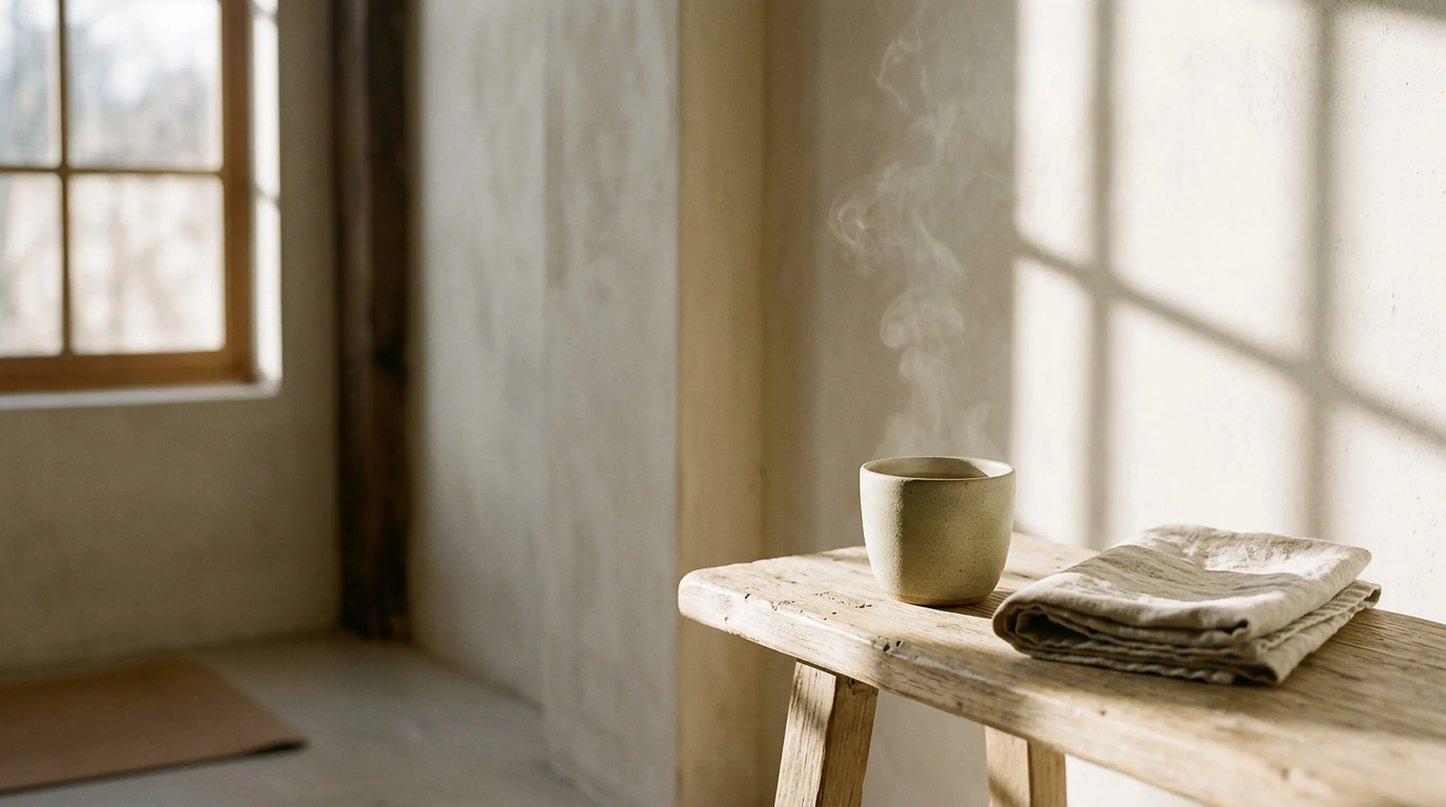
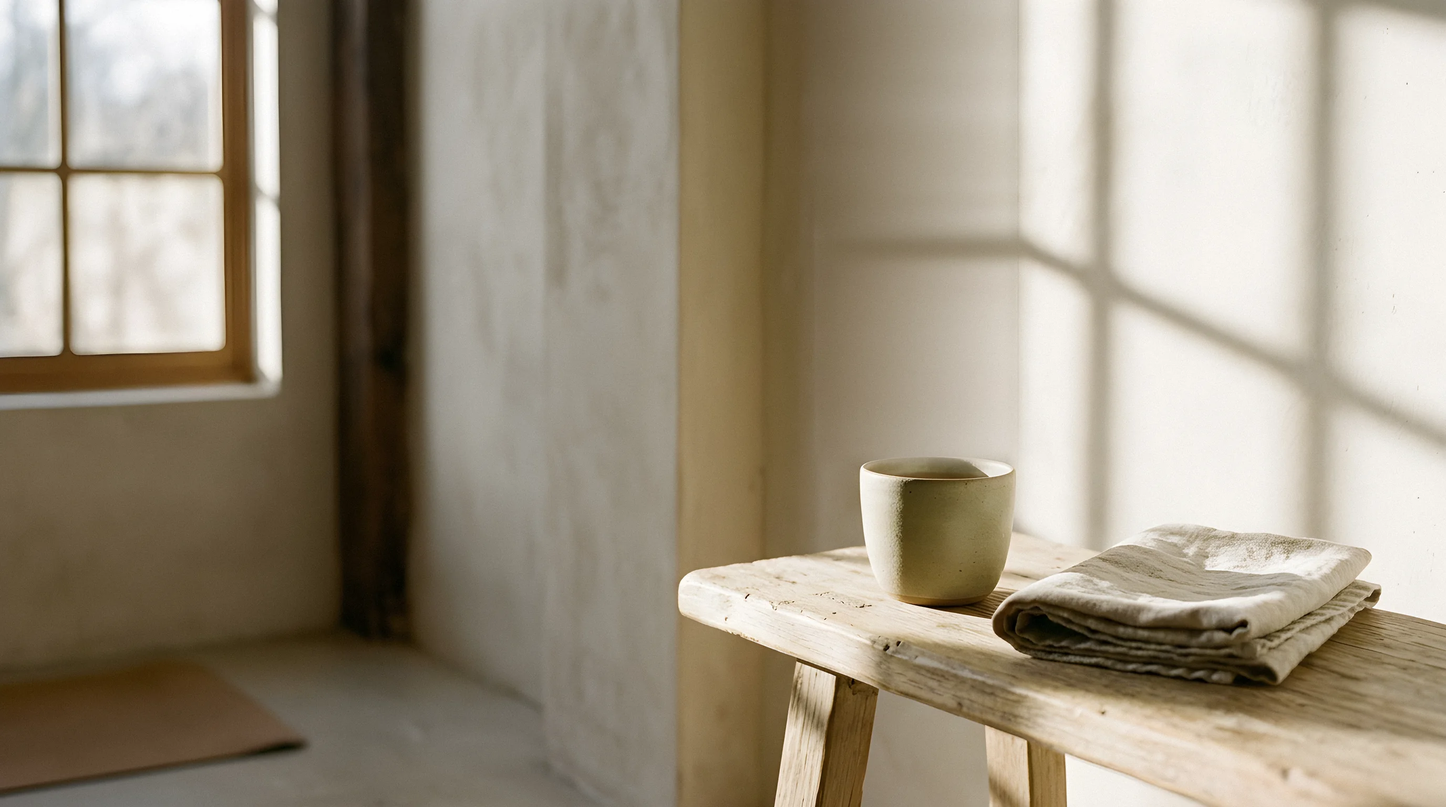
Hale: client's founder photo, Real-ESRGAN 4K hero, steam removed from photo and redrawn as live wisps
Claude-Session: https://claude.ai/code/session_01UTJuAjWUwzzxbHTx65gk4g

Changed region(s): [[0.5625, 0.0, 0.7188, 0.5938], [0.0, 0.4375, 0.0312, 0.4688]]

diff --git a/projects/pilates-studio/index.html b/projects/pilates-studio/index.html
@@ -315,7 +315,7 @@ footer .eyebrow { margin-bottom: 12px; }
       <blockquote>“I opened Hale for people who were tired of being shouted at in fitness classes.”</blockquote>
       <div class="who"><b>Claire Moreau</b><span class="muted">Founder and lead teacher · 14 years on the reformer</span></div>
     </div>
-    <figure class="photo settle reveal"><img src="img/teacher.webp" width="1792" height="2400" decoding="async" alt="Portrait of the founder, arms folded, in the studio" loading="lazy"></figure>
+    <figure class="photo settle reveal"><img src="img/teacher.webp" width="1800" height="2700" decoding="async" alt="Portrait of the founder, arms folded, in the studio" loading="lazy"></figure>
   </section>
 
   <section class="quote settle" aria-label="Client review">
@@ -448,12 +448,13 @@ footer .eyebrow { margin-bottom: 12px; }
 })();
 </script>
 <script>
-// Steam rising from the cup on the closing image: soft particles that drift, widen and fade
+// Steam rising from the cup on the closing image: a few soft wisps that curl, thin out and fade
 (() => {
   if (matchMedia('(prefers-reduced-motion: reduce)').matches) return;
   const section = document.querySelector('.final'), img = section.querySelector('img'), cv = section.querySelector('.steam'), ctx = cv.getContext('2d');
-  const CUP = { x: .647, y: .565, r: .03 };          // cup mouth in the photo, as a share of its natural size
-  let W, H, ox, oy, scale, parts = [], running = false, t = 0;
+  const CUP = { x: .647, y: .578, r: .026 };          // cup mouth in the photo, as a share of its natural size
+  const wisps = [0, 1, 2].map(i => ({ off: (i - 1) * .22, ph: i * 2.1, sp: .85 + i * .2, f: 3.4 + i * .9 }));
+  let W, H, ox, oy, scale, running = false, t = 0;
   const fit = () => {
     const r = img.getBoundingClientRect(), s = section.getBoundingClientRect(), dpr = Math.min(devicePixelRatio || 1, 2);
     W = r.width; H = r.height;
@@ -462,24 +463,27 @@ footer .eyebrow { margin-bottom: 12px; }
     const iw = img.naturalWidth || 2752, ih = img.naturalHeight || 1536, pos = getComputedStyle(img).objectPosition.split(' ').map(v => parseFloat(v) / 100);
     scale = Math.max(W / iw, H / ih); ox = (W - iw * scale) * pos[0]; oy = (H - ih * scale) * pos[1];
   };
-  const spawn = () => {
-    const iw = img.naturalWidth || 2752, ih = img.naturalHeight || 1536;
-    const cx = ox + CUP.x * iw * scale, cy = oy + CUP.y * ih * scale, cr = CUP.r * iw * scale;
-    parts.push({ x: cx + (Math.random() - .5) * cr, y: cy, vy: -(.25 + Math.random() * .35) * scale * 4, seed: Math.random() * 6.28, life: 0, max: 260 + Math.random() * 160, r0: cr * .35 });
-  };
   const frame = () => {
     if (!running) return;
-    t += 1; ctx.clearRect(0, 0, W, H);
-    if (t % 4 === 0 && parts.length < 70) spawn();
-    parts = parts.filter(p => p.life < p.max);
-    for (const p of parts) {
-      p.life++; const k = p.life / p.max;
-      p.y += p.vy; p.x += Math.sin(p.seed + p.life * .022) * .45 * (1 + k * 3) * scale * 4;
-      const r = p.r0 * (1 + k * 5), a = Math.sin(Math.PI * k) * .09;
-      const g = ctx.createRadialGradient(p.x, p.y, 0, p.x, p.y, r);
-      g.addColorStop(0, `rgba(255,252,246,${a})`); g.addColorStop(1, 'rgba(255,252,246,0)');
-      ctx.fillStyle = g; ctx.beginPath(); ctx.arc(p.x, p.y, r, 0, 6.283); ctx.fill();
+    t++; ctx.clearRect(0, 0, W, H);
+    const iw = img.naturalWidth || 2752, ih = img.naturalHeight || 1536;
+    const cx = ox + CUP.x * iw * scale, cy = oy + CUP.y * ih * scale, cr = CUP.r * iw * scale, len = cr * 10;
+    ctx.filter = `blur(${Math.max(3, cr * .2)}px)`; ctx.lineCap = 'round';
+    for (const w of wisps) {
+      const pulse = .55 + .45 * Math.sin(t * .012 * w.sp + w.ph);
+      let px = cx + w.off * cr, py = cy;
+      for (let i = 1; i <= 48; i++) {
+        const u = i / 48, y = cy - u * len;
+        const x = cx + w.off * cr * (1 - u * .5)
+          + Math.sin(u * w.f - t * .035 * w.sp + w.ph) * cr * 1.1 * u
+          + Math.sin(u * 1.6 - t * .012) * cr * 1.8 * u * u;
+        ctx.strokeStyle = `rgba(255,255,252,${(.3 * pulse * Math.pow(Math.sin(Math.PI * Math.min(.12 + u * 1.05, 1)), .8) * (1 - u * .35)).toFixed(3)})`;
+        ctx.lineWidth = cr * (.18 + u * 1.1);
+        ctx.beginPath(); ctx.moveTo(px, py); ctx.lineTo(x, y); ctx.stroke();
+        px = x; py = y;
+      }
     }
+    ctx.filter = 'none';
     requestAnimationFrame(frame);
   };
   const start = () => { fit(); if (!running) { running = true; requestAnimationFrame(frame); } };

diff --git a/skills/premium-wow-design/references/project-log.md b/skills/premium-wow-design/references/project-log.md
@@ -4,4 +4,4 @@
 
 | Проект | Шрифты | Палитра | Первый экран | Ключевые приёмы движения |
 |---|---|---|---|---|
-| Hale Pilates, Paris (2026-10) | Instrument Serif + Hanken Grotesk | овёс, лён, глина, шалфей, графит | фото на всю ширину, текст слева на светлой стене | «дыхание» кадра 8s; Inhale/Exhale; фото «выдыхают» 1.12→1 при скролле; rise текста; овсяная дымка под текстом; v2: Lenis 1.4s; слова заголовков поднимаются из маски (GSAP); студия раскрывается через арочное окно (clip-path, pin); цитата заполняется по словам при скролле; v3: тёплый свет следует за курсором, кадр смещается за мышью (глубина), при уходе со скролла кадр «выдыхает» (yPercent+scale), текст растворяется; расписание с записью; живой пар над чашкой (canvas-частицы) |
+| Hale Pilates, Paris (2026-10) | Instrument Serif + Hanken Grotesk | овёс, лён, глина, шалфей, графит | фото на всю ширину, текст слева на светлой стене | «дыхание» кадра 8s; Inhale/Exhale; фото «выдыхают» 1.12→1 при скролле; rise текста; овсяная дымка под текстом; v2: Lenis 1.4s; слова заголовков поднимаются из маски (GSAP); студия раскрывается через арочное окно (clip-path, pin); цитата заполняется по словам при скролле; v3: тёплый свет следует за курсором, кадр смещается за мышью (глубина), при уходе со скролла кадр «выдыхает» (yPercent+scale), текст растворяется; расписание с записью; живой пар над чашкой (canvas, 3 изгибающихся струйки с blur; нарисованный пар убран с фото) |

diff --git a/skills/premium-wow-design/references/workflow-rules.md b/skills/premium-wow-design/references/workflow-rules.md
@@ -32,7 +32,8 @@
 
 ## 6. Качество изображений
 - Генерация: Figma (gemini-3.1-flash-image, ~1376px). Оригиналы скачивать из Figma напрямую (сеть Full).
-- Для 4K нужен AI-апскейлер. Если Вероника добавит API-ключ (Replicate/fal.ai) в Network secrets — апскейлить сам; иначе Lanczos ×2 и честно предупреждать, что это не настоящая детализация.
+- 4K: локальный AI-апскейлер Real-ESRGAN x4plus (torch CPU + spandrel, веса с GitHub releases), тайлами; ~4 мин на кадр 1376px. После апскейла вернуть лёгкое плёночное зерно (σ≈3), иначе кожа «пластиковая». Установка: `pip install torch torchvision --index-url https://download.pytorch.org/whl/cpu && pip install spandrel`.
+- Убрать лишнее с фото (например, нарисованный пар) — заливкой по соседним столбцам/строкам + зерно, проверять кропом.
 - Каждый кадр проверять на артефакты ИИ: пальцы, суставы, логотипы, надписи, «грязные» стены.
 
 ## 7. Цепочка изображений и видео
